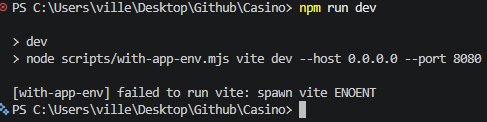
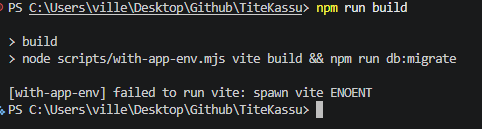
Export from Grok

diff --git a/README.md b/README.md
@@ -43,29 +43,7 @@ Then open [http://localhost:8080](http://localhost:8080).
 
 The server keeps running until you stop it with `Ctrl+C`. Save a file and the page reloads.
 
-### Windows: `spawn vite ENOENT`
-
-PowerShell can fail with:
-
-```text
-[with-app-env] failed to run vite: spawn vite ENOENT
-```
-
-Node cannot find the `vite.cmd` shim. Start Vite through `node` instead. Same app, same port:
-
-**PowerShell**
-
-```powershell
-node scripts/with-app-env.mjs node .\node_modules\vite\bin\vite.js dev --host 127.0.0.1 --port 8080
-```
-
-**Command Prompt**
-
-```bat
-node scripts/with-app-env.mjs node .\node_modules\vite\bin\vite.js dev --host 127.0.0.1 --port 8080
-```
-
-If port 8080 is already taken, stop the other process or close the previous terminal, then run the command again.
+`npm run dev`, `npm run build`, and `npm run preview` start Vite through Node (`node_modules/vite/bin/vite.js`). That works in PowerShell. A bare `vite` fails there with `spawn vite ENOENT`, because Windows only has `vite.cmd` and Node does not resolve that extension unless a shell is used.
 
 ## Production build
 
@@ -75,11 +53,20 @@ npm run build
 
 That type-checks the client bundle via Vite and writes output under `.output/` (Nitro / Vercel preset). Without `DATABASE_URL` the migrate step prints a skip line and exits 0. That is expected locally.
 
-**Windows, if `npm run build` hits the same `spawn vite ENOENT` error:**
+If this folder still has the old `package.json` (`with-app-env.mjs vite build`) you will see the error in your screenshot. Either replace `package.json` and `scripts/with-app-env.mjs` from this copy, or run the build directly in PowerShell:
 
 ```powershell
 node scripts/with-app-env.mjs node .\node_modules\vite\bin\vite.js build
+npm run db:migrate
 ```
+
+Dev server, same situation:
+
+```powershell
+node scripts/with-app-env.mjs node .\node_modules\vite\bin\vite.js dev --host 127.0.0.1 --port 8080
+```
+
+If port 8080 is already taken, stop the other terminal and run it again.
 
 ## Preview the build
 
@@ -91,7 +78,7 @@ npm run preview
 
 Open [http://127.0.0.1:8081](http://127.0.0.1:8081). Dev stays on port **8080**; the built preview stays on port **8081**.
 
-**Windows workaround:**
+Old `package.json` only, in PowerShell:
 
 ```powershell
 node scripts/with-app-env.mjs node .\node_modules\vite\bin\vite.js preview --host 127.0.0.1 --port 8081
